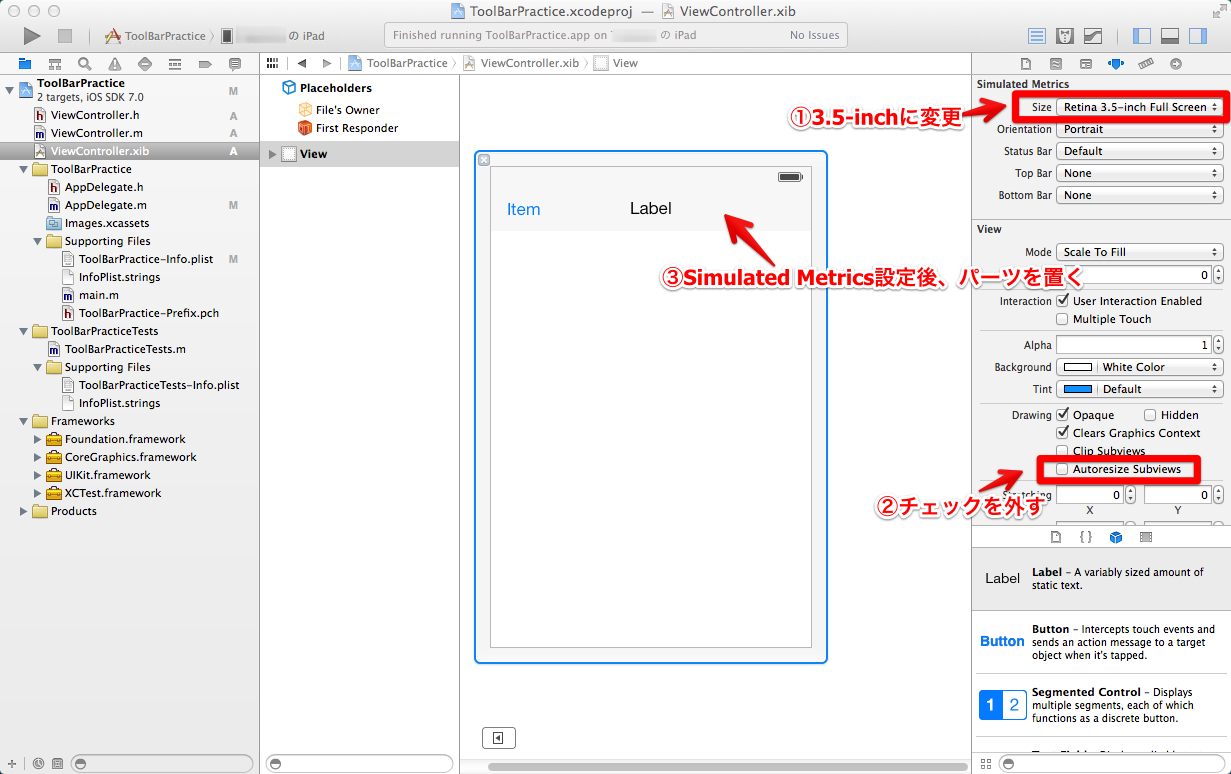
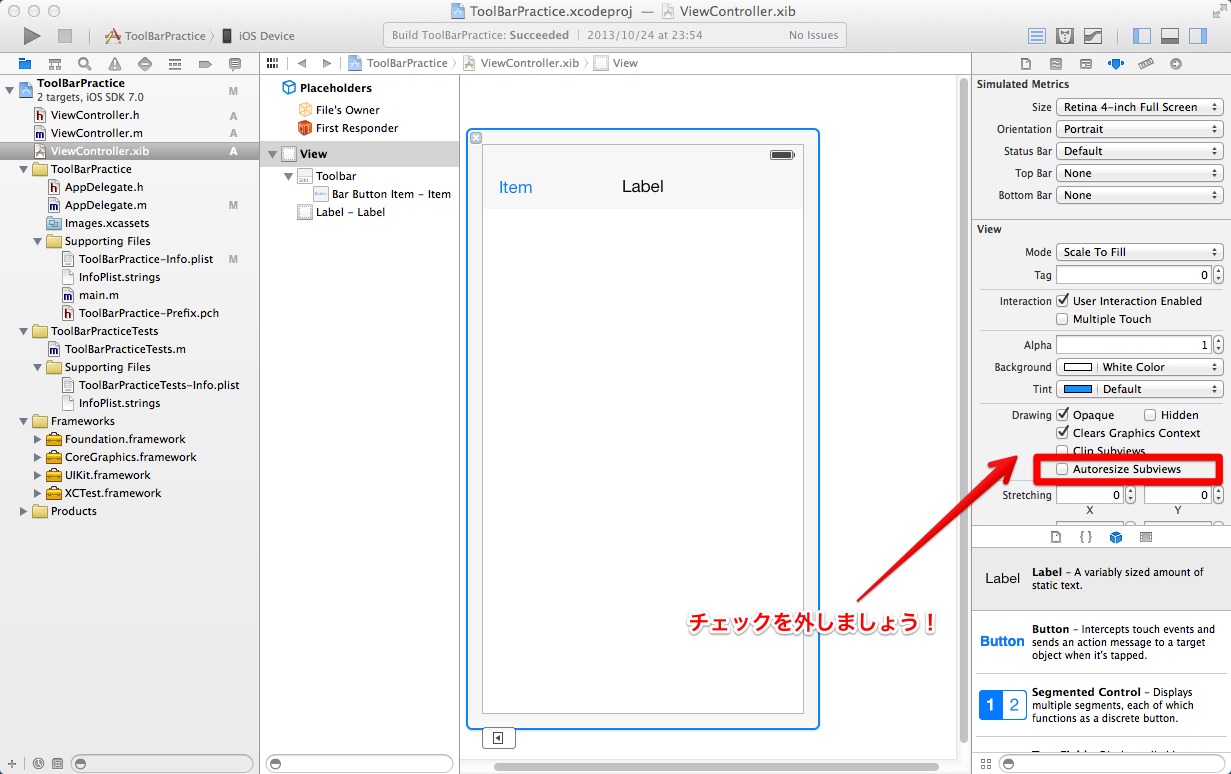
Site updated at 2013-10-26 04:30:41 UTC

diff --git a/blog/2013/10/24/iphone-slash-ipad-toolbar-support/index.html b/blog/2013/10/24/iphone-slash-ipad-toolbar-support/index.html
@@ -121,7 +121,7 @@
 <p>さくっと説明します。ToolBarPracticeというプロジェクトを作ります。<br/>
 <img src="/images/xcode_toolbar_ipad1.png" alt="DevicesはiPhone" /></p>
 
-<p>ここで気をつけなくてはならないのは、xibファイルの<strong>Simulated Metrics</strong>です。ここのSizeがデフォルト<strong>Retina 4-inch Full Screen</strong>になっています。このまま開発を進めるとiPadで見たときにToolBarが迷子になります。なので、ここを<strong>Retina 3.5-inch Full Screen</strong>にします。さらにViewのDrawingの<strong>Autoresize Subviews</strong>のチェックを外します。これら設定後、パーツを起きましょう。<br/>
+<p>ここで気をつけなくてはならないのは、xibファイルの<strong>Simulated Metrics</strong>です。ここのSizeがデフォルト<strong>Retina 4-inch Full Screen</strong>になっています。このまま開発を進めるとiPadで見たときにToolBarが迷子になります。なので, ViewのDrawingの<strong>Autoresize Subviews</strong>のチェックを外します。この設定はパーツを置いた後でも大丈夫です。とりあえず、何も考えずに開発を進めた後、iPadで見たときにToolBarが表示されないというときでも、チェックを外すだけで対応できます。<br/>
 <img src="/images/xcode_toolbar_ipad2.png" alt="Simulated Metricsの設定" /></p>
 
 <p>因みにiOS6とiOS7の対応は別途必要です。詳しくは<a href="http://grandbig.github.io/blog/2013/09/22/xcode5-toolbar/">iOS6とiOS7の両方で使えるようにtoolbarを調整する方法</a>を参照ください。</p>
